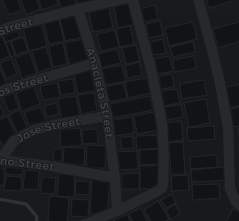
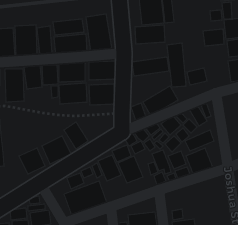
Fix merge issue

diff --git a/frontend/application/src/components/Map/LeafletMap.tsx b/frontend/application/src/components/Map/LeafletMap.tsx
@@ -1,0 +1,298 @@
+import { MapContainer, TileLayer, Marker, Popup } from "react-leaflet";
+import "leaflet/dist/leaflet.css";
+import L from "leaflet";
+import { useState } from "react";
+
+delete (L.Icon.Default.prototype as unknown as Record<string, unknown>)
+  ._getIconUrl;
+L.Icon.Default.mergeOptions({
+  iconRetinaUrl:
+    "https://cdnjs.cloudflare.com/ajax/libs/leaflet/1.7.1/images/marker-icon-2x.png",
+  iconUrl:
+    "https://cdnjs.cloudflare.com/ajax/libs/leaflet/1.7.1/images/marker-icon.png",
+  shadowUrl:
+    "https://cdnjs.cloudflare.com/ajax/libs/leaflet/1.7.1/images/marker-shadow.png",
+});
+
+import type { ReactNode } from "react";
+
+interface LeafletMapProps {
+  height?: string;
+  width?: string;
+  children?: ReactNode;
+}
+
+function LeafletMap({
+  height = "500px",
+  width = "100%",
+  children,
+}: LeafletMapProps) {
+  const [currentTheme, setCurrentTheme] = useState("default");
+  const balangaCenter: [number, number] = [14.676, 120.536];
+
+  const themes = {
+    default: {
+      name: "Default",
+      url: "https://{s}.tile.openstreetmap.org/{z}/{x}/{y}.png",
+      attribution: "&copy; OpenStreetMap contributors",
+      previewUrl: "/src/assets/maps/preview_default.png",
+    },
+    dark: {
+      name: "Dark",
+      url: "https://{s}.basemaps.cartocdn.com/dark_all/{z}/{x}/{y}{r}.png",
+      attribution: "&copy; OpenStreetMap contributors &copy; CARTO",
+      previewUrl: "/src/assets/maps/preview_dark.png",
+    },
+    satellite: {
+      name: "Satellite",
+      url: "https://server.arcgisonline.com/ArcGIS/rest/services/World_Imagery/MapServer/tile/{z}/{y}/{x}",
+      attribution: "&copy; Esri Satellite + Dark Overlay",
+      isNight: true,
+      previewUrl: "/src/assets/maps/preview_satellite.png",
+    },
+  };
+
+  const handleThemeChange = (theme: string) => {
+    setCurrentTheme(theme);
+  };
+
+  return (
+    <>
+      <style>{`
+         .night-satellite-base {
+           filter: hue-rotate(200deg) saturate(0.2) brightness(0.55) contrast(1.3) grayscale(0.3);
+           opacity: 0.75;
+         }
+         
+         .night-dark-overlay {
+           mix-blend-mode: multiply;
+           opacity: 0.4;
+         }
+         
+         .dark-theme-overlay {
+           position: absolute;
+           top: 0;
+           left: 0;
+           right: 0;
+           bottom: 0;
+           background: rgba(255, 255, 255, 0.08);
+           pointer-events: none;
+           z-index: 400;
+         }
+         
+         /* Blue overlay for dark theme - adjusted brightness/contrast/saturation */
+         .dark-theme-blue-overlay {
+           position: absolute;
+           top: 0;
+           left: 0;
+           right: 0;
+           bottom: 0;
+           background: rgba(100, 150, 255, 0.2);
+           mix-blend-mode: multiply;
+           pointer-events: none;
+           z-index: 401;
+           filter: brightness(1.1) contrast(1.2) saturate(1.4);
+         }
+         
+         /* Blue overlay for default theme */
+         .default-theme-blue-overlay {
+           position: absolute;
+           top: 0;
+           left: 0;
+           right: 0;
+           bottom: 0;
+           background: rgba(100, 150, 255, 0.1);
+           mix-blend-mode: multiply;
+           pointer-events: none;
+           z-index: 400;
+         }
+         
+         /* Default OSM with lighter dark theme + subtle blue tone + toned down labels */
+         .default-theme-dark {
+           filter: invert(1) brightness(0.8) contrast(0.85) saturate(0.3) grayscale(0.7) hue-rotate(15deg);
+         }
+         
+         /* Dark CARTO theme with blue tone */
+         .dark-theme-blue {
+           filter: hue-rotate(220deg) saturate(1.3) brightness(1.0) contrast(1.1);
+         }
+         
+         
+         /* Reset zoom controls to default Leaflet positioning within our container */
+         .leaflet-top.leaflet-left {
+           top: 10px !important;
+           left: 10px !important;
+         }
+         
+         /* Make sure all leaflet controls stay within bounds */
+         .leaflet-control-container {
+           pointer-events: none;
+         }
+         
+         .leaflet-control {
+           pointer-events: auto;
+         }
+       `}</style>
+
+      <div style={{ 
+        height, 
+        width, 
+        position: "relative", 
+        overflow: "hidden", 
+        zIndex: 1,
+        marginLeft: "0",
+        paddingLeft: "0",
+        backgroundColor: "#070B13"
+      }}>
+        {/* Google Maps Style Layer Switcher */}
+        <div
+          style={{
+            position: "absolute",
+            top: "15px",
+            right: "30px",
+            zIndex: 1000,
+            display: "flex",
+            flexDirection: "column",
+            gap: "8px",
+            pointerEvents: "auto",
+          }}
+        >
+          {Object.entries(themes).map(([key, theme]) => (
+            <div
+              key={key}
+              onClick={() => handleThemeChange(key)}
+              style={{
+                width: "60px",
+                height: "60px",
+                border:
+                  currentTheme === key
+                    ? "3px solid #1976d2"
+                    : "2px solid rgba(255,255,255,0.8)",
+                borderRadius: "8px",
+                cursor: "pointer",
+                boxShadow:
+                  currentTheme === key
+                    ? "0 4px 12px rgba(25,118,210,0.3)"
+                    : "0 2px 8px rgba(0,0,0,0.2)",
+                transition: "all 0.2s ease",
+                backgroundImage: `url(${theme.previewUrl})`,
+                backgroundSize: "cover",
+                backgroundPosition: "center",
+                position: "relative",
+                overflow: "hidden",
+              }}
+              onMouseEnter={(e) => {
+                if (currentTheme !== key) {
+                  e.currentTarget.style.transform = "scale(1.05)";
+                  e.currentTarget.style.boxShadow =
+                    "0 4px 16px rgba(0,0,0,0.3)";
+                }
+              }}
+              onMouseLeave={(e) => {
+                if (currentTheme !== key) {
+                  e.currentTarget.style.transform = "scale(1)";
+                  e.currentTarget.style.boxShadow = "0 2px 8px rgba(0,0,0,0.2)";
+                }
+              }}
+            >
+              {/* Layer Label */}
+              <div
+                style={{
+                  position: "absolute",
+                  bottom: "0",
+                  left: "0",
+                  right: "0",
+                  background: "rgba(0,0,0,0.7)",
+                  color: "white",
+                  fontSize: "9px",
+                  fontWeight: "600",
+                  padding: "4px 2px",
+                  textAlign: "center",
+                  lineHeight: "1",
+                }}
+              >
+                {theme.name}
+              </div>
+
+              {/* Active Indicator */}
+              {currentTheme === key && (
+                <div
+                  style={{
+                    position: "absolute",
+                    top: "4px",
+                    right: "4px",
+                    width: "12px",
+                    height: "12px",
+                    borderRadius: "50%",
+                    background: "#1976d2",
+                    border: "2px solid white",
+                    boxShadow: "0 2px 4px rgba(0,0,0,0.2)",
+                  }}
+                />
+              )}
+            </div>
+          ))}
+        </div>
+
+        <MapContainer
+          center={balangaCenter}
+          zoom={15}
+          minZoom={14}
+          maxZoom={18}
+          maxBounds={[
+            [14.600155704670286, 120.44799628423448],
+            [14.712450787098618, 120.59856467222914],
+          ]}
+          maxBoundsViscosity={0.7}
+          style={{ height: "100%", width: "100%", backgroundColor: "#070B13" }}
+        >
+
+          <TileLayer
+            key={currentTheme}
+            attribution={
+              themes[currentTheme as keyof typeof themes].attribution
+            }
+            url={themes[currentTheme as keyof typeof themes].url}
+            className={
+              currentTheme === "satellite" 
+                ? "night-satellite-base" 
+                : currentTheme === "default"
+                ? "default-theme-dark"
+                : ""
+            }
+          />
+
+
+          {/* Night mode overlay */}
+          {currentTheme === "night" && (
+            <TileLayer
+              attribution=""
+              url="https://{s}.basemaps.cartocdn.com/dark_only_labels/{z}/{x}/{y}{r}.png"
+              className="night-dark-overlay"
+            />
+          )}
+
+          <Marker position={balangaCenter}>
+            <Popup>Balanga City, Bataan</Popup>
+          </Marker>
+
+          {/* Render children overlays here */}
+          {children}
+        </MapContainer>
+
+        {/* Dark theme lightening overlay */}
+        {currentTheme === "dark" && (
+          <>
+            <div className="dark-theme-overlay" />
+            <div className="dark-theme-blue-overlay" />
+          </>
+        )}
+
+        {/* Blue overlay for default theme */}
+        {currentTheme === "default" && <div className="default-theme-blue-overlay" />}
+      </div>
+    </>
+  );
+}
+
+export default LeafletMap;
